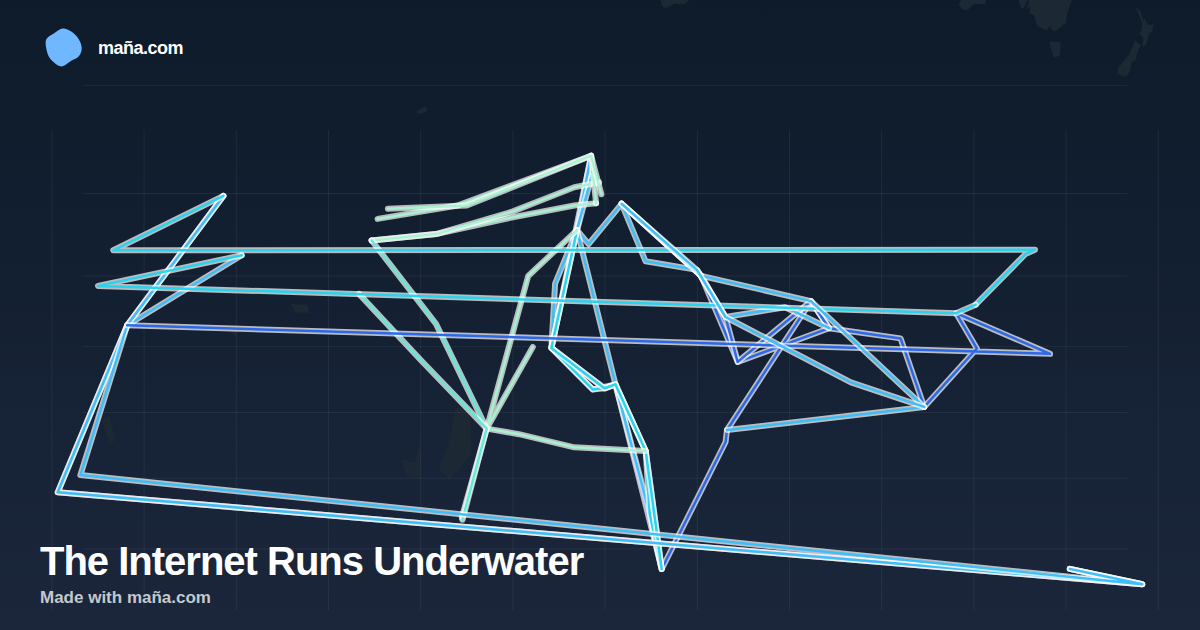
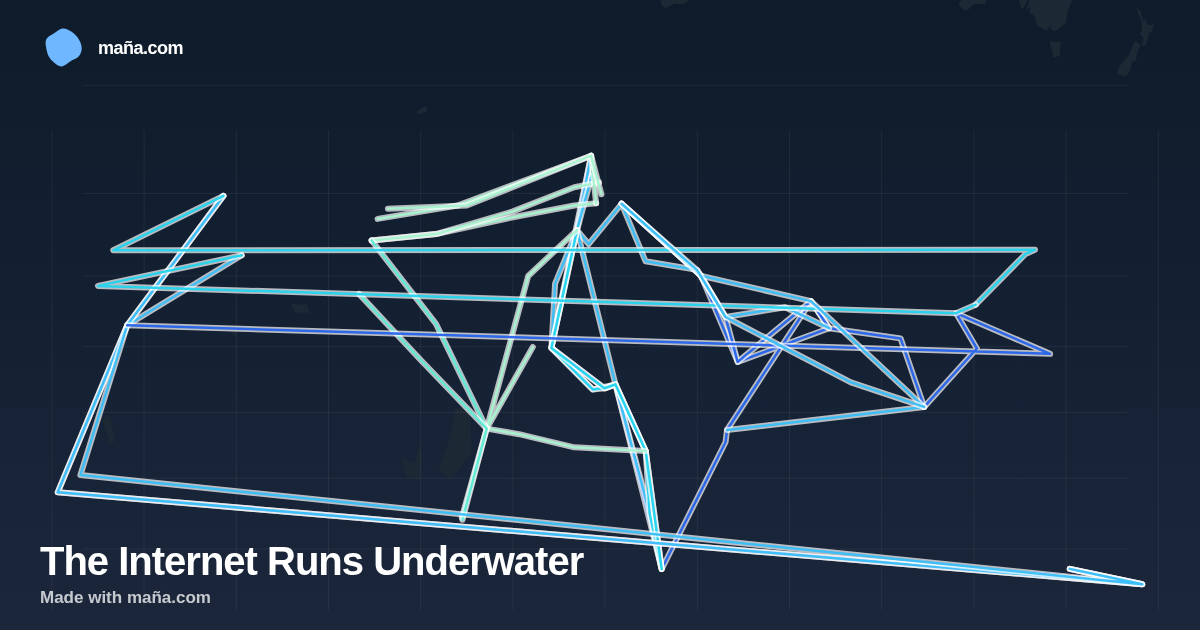
chore: checkpoint autopilot

Changed region(s): [[0.0308, 0.8746, 0.4933, 0.9048], [0.0308, 0.9349, 0.185, 0.9651], [0.0617, 0.0603, 0.1542, 0.0905]]

diff --git a/debug-gallery.tmp.js b/debug-gallery.tmp.js
@@ -1,0 +1,37 @@
+const { chromium } = require('@playwright/test');
+
+(async () => {
+  const browser = await chromium.launch({ headless: true });
+  const page = await browser.newPage();
+
+  const failed = [];
+  const pending = [];
+  const requests = {};
+  page.on('request', r => { requests[r.url()] = r; });
+  page.on('requestfailed', r => failed.push({ url: r.url(), err: r.failure() && r.failure().errorText }));
+  page.on('pageerror', err => console.log('PAGEERROR:', err.message));
+
+  // Track which requests are still in flight after 15s
+  setTimeout(() => {
+    const stillPending = [];
+    for (const [url, r] of Object.entries(requests)) {
+      // check if response received
+      stillPending.push(url);
+    }
+    console.log('\n=== ALL REQUESTS ===');
+    for (const [url] of Object.entries(requests)) console.log('REQ:', url.slice(0, 100));
+  }, 15000);
+
+  try {
+    await page.goto('http://127.0.0.1:4173/gallery/', { waitUntil: 'load', timeout: 60000 });
+    console.log('LOAD OK');
+  } catch (e) {
+    console.log('GOTO ERROR:', e.message.split('\n')[0]);
+  }
+
+  await page.waitForTimeout(5000);
+  console.log('\n=== FAILED REQUESTS ===');
+  failed.forEach(f => console.log('FAILED:', f.url.slice(0, 100), '|', f.err));
+
+  await browser.close();
+})();

diff --git a/tests/probe/load-probe.spec.js b/tests/probe/load-probe.spec.js
@@ -1,0 +1,24 @@
+const { test } = require('@playwright/test');
+
+test('probe gallery load', async ({ page }) => {
+  const t0 = Date.now();
+  const errors = [];
+  page.on('pageerror', (e) => errors.push('PAGEERROR: ' + e.message));
+  page.on('console', (m) => { if (m.type() === 'error') errors.push('CONSOLE: ' + m.text()); });
+  await page.goto('/gallery/', { waitUntil: 'load', timeout: 90000 });
+  console.log('gallery load ms:', Date.now() - t0);
+  await page.waitForSelector('.card-like-btn', { timeout: 20000 });
+  console.log('card ready ms:', Date.now() - t0);
+  console.log('cards:', await page.locator('.card').count());
+  console.log('errors:', JSON.stringify(errors, null, 2));
+});
+
+test('probe home load', async ({ page }) => {
+  const t0 = Date.now();
+  const errors = [];
+  page.on('pageerror', (e) => errors.push('PAGEERROR: ' + e.message));
+  page.on('console', (m) => { if (m.type() === 'error') errors.push('CONSOLE: ' + m.text()); });
+  await page.goto('/', { waitUntil: 'load', timeout: 90000 });
+  console.log('home load ms:', Date.now() - t0);
+  console.log('errors:', JSON.stringify(errors, null, 2));
+});

diff --git a/probe.config.js b/probe.config.js
@@ -1,0 +1,18 @@
+const { defineConfig } = require('@playwright/test');
+const repoRoot = '/home/erik/autopilot/workspaces/mana-maps';
+module.exports = defineConfig({
+  testDir: repoRoot + '/tests/probe',
+  timeout: 120_000,
+  retries: 0,
+  workers: 1,
+  use: {
+    baseURL: 'http://127.0.0.1:4173',
+    headless: true,
+  },
+  webServer: {
+    command: `python3 -m http.server 4173 --bind 127.0.0.1 --directory "${repoRoot}"`,
+    url: 'http://127.0.0.1:4173',
+    reuseExistingServer: false,
+    timeout: 30_000,
+  },
+});
